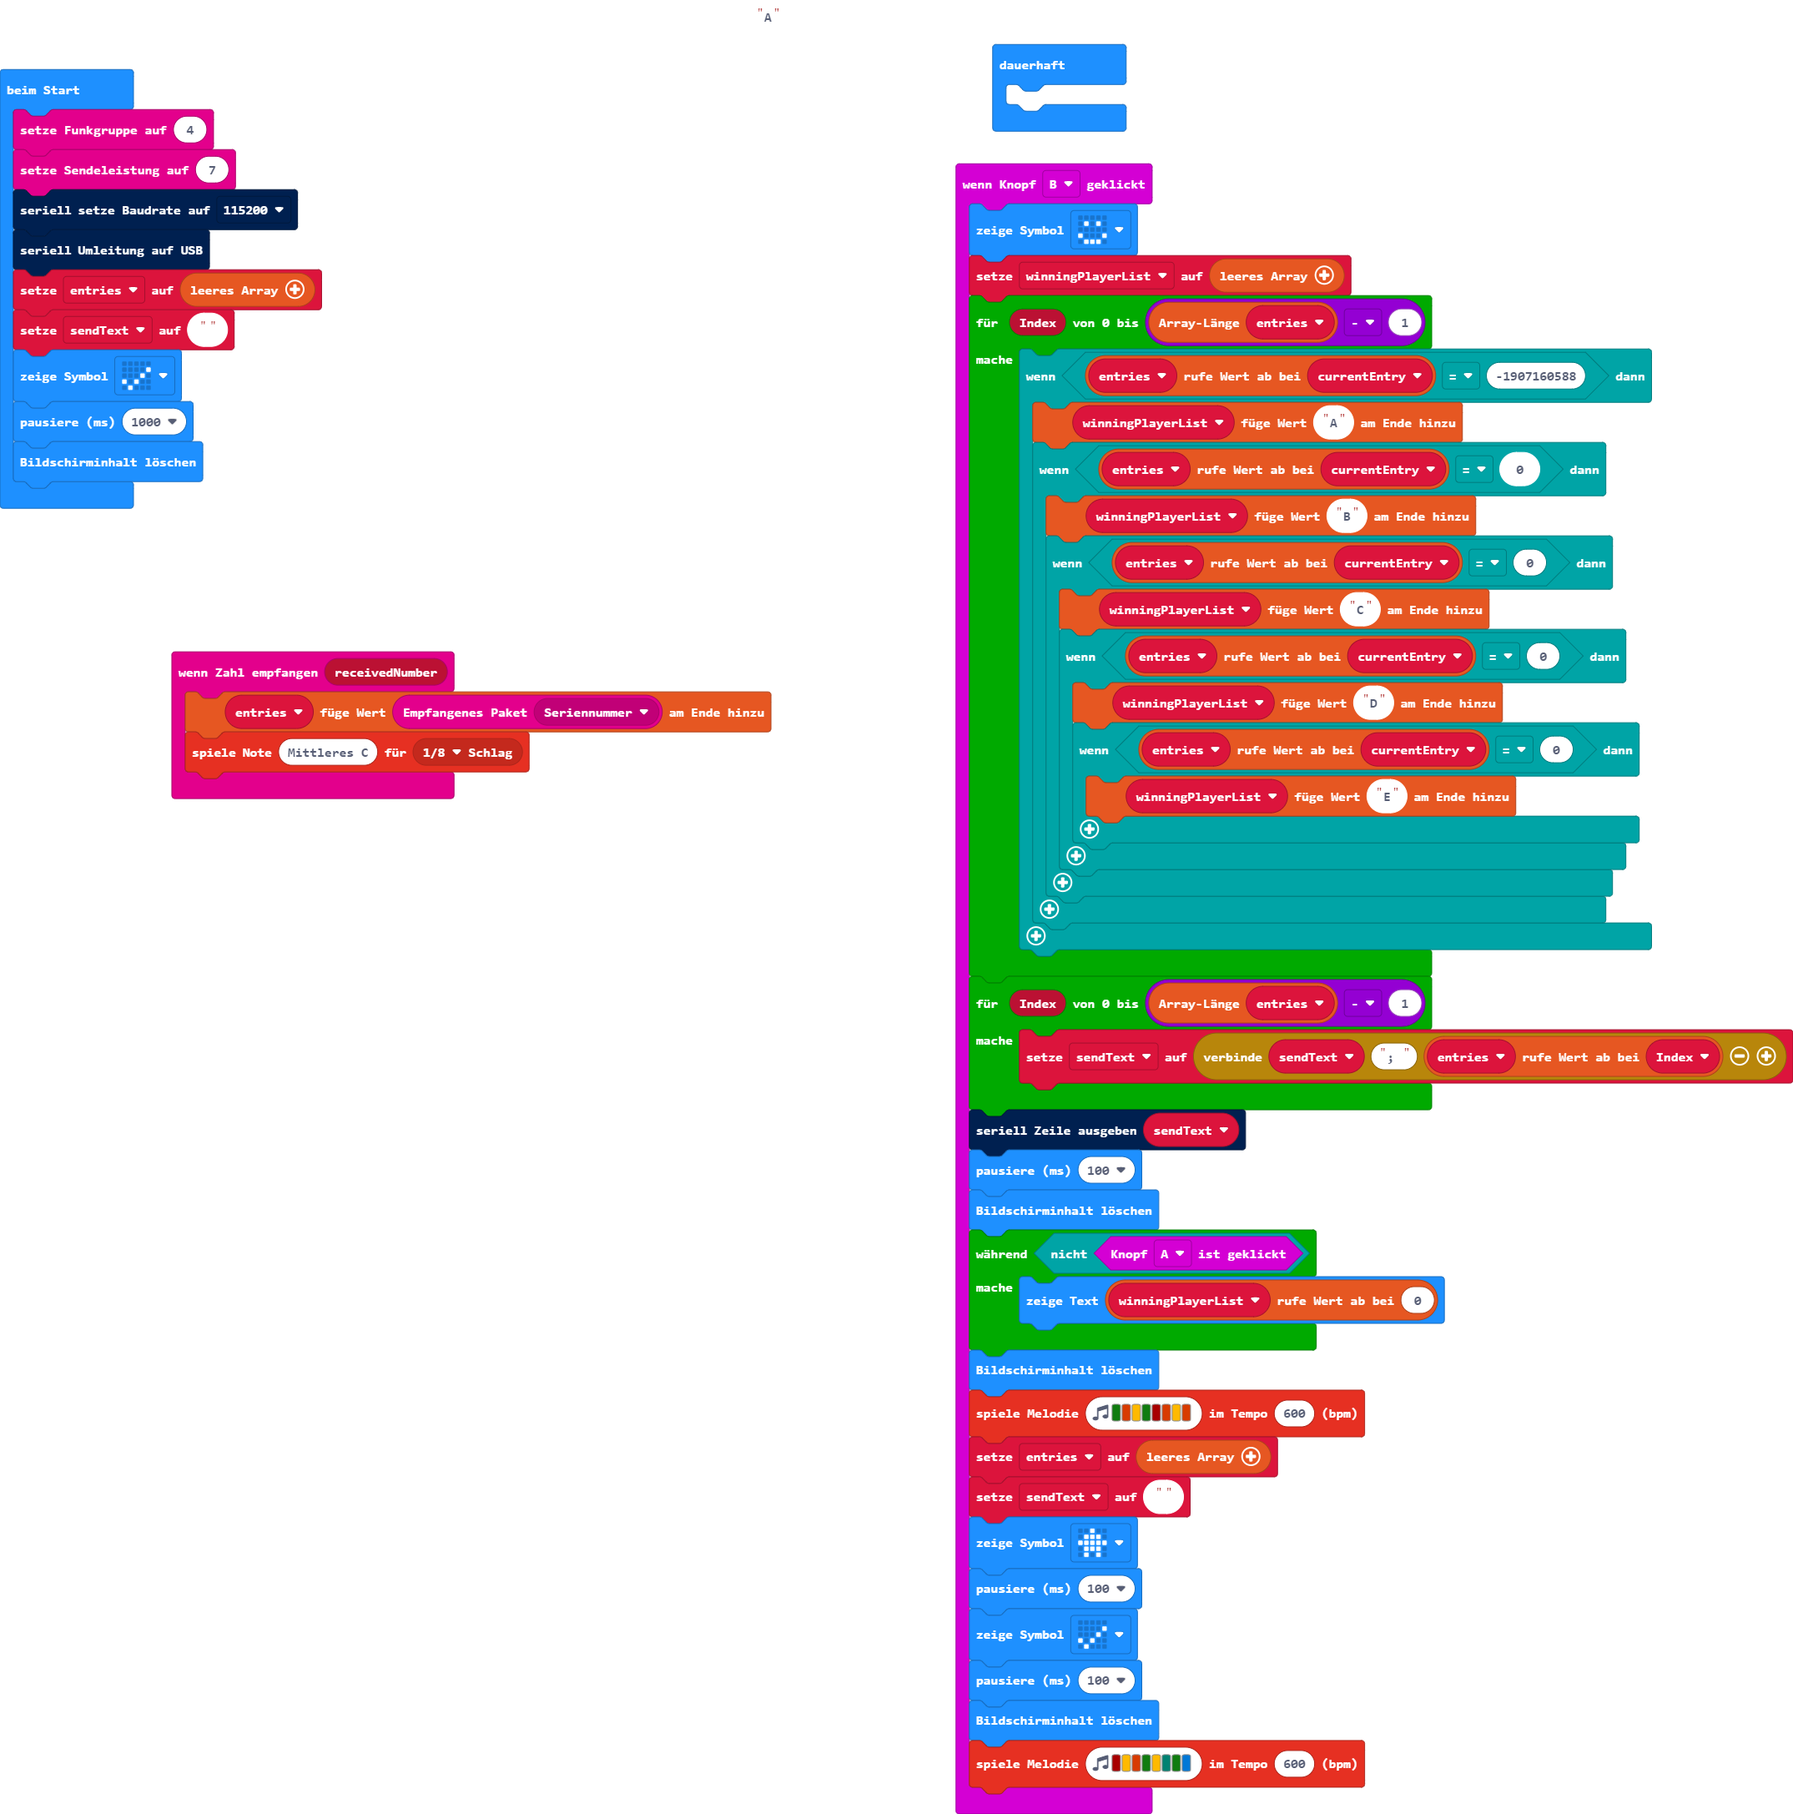
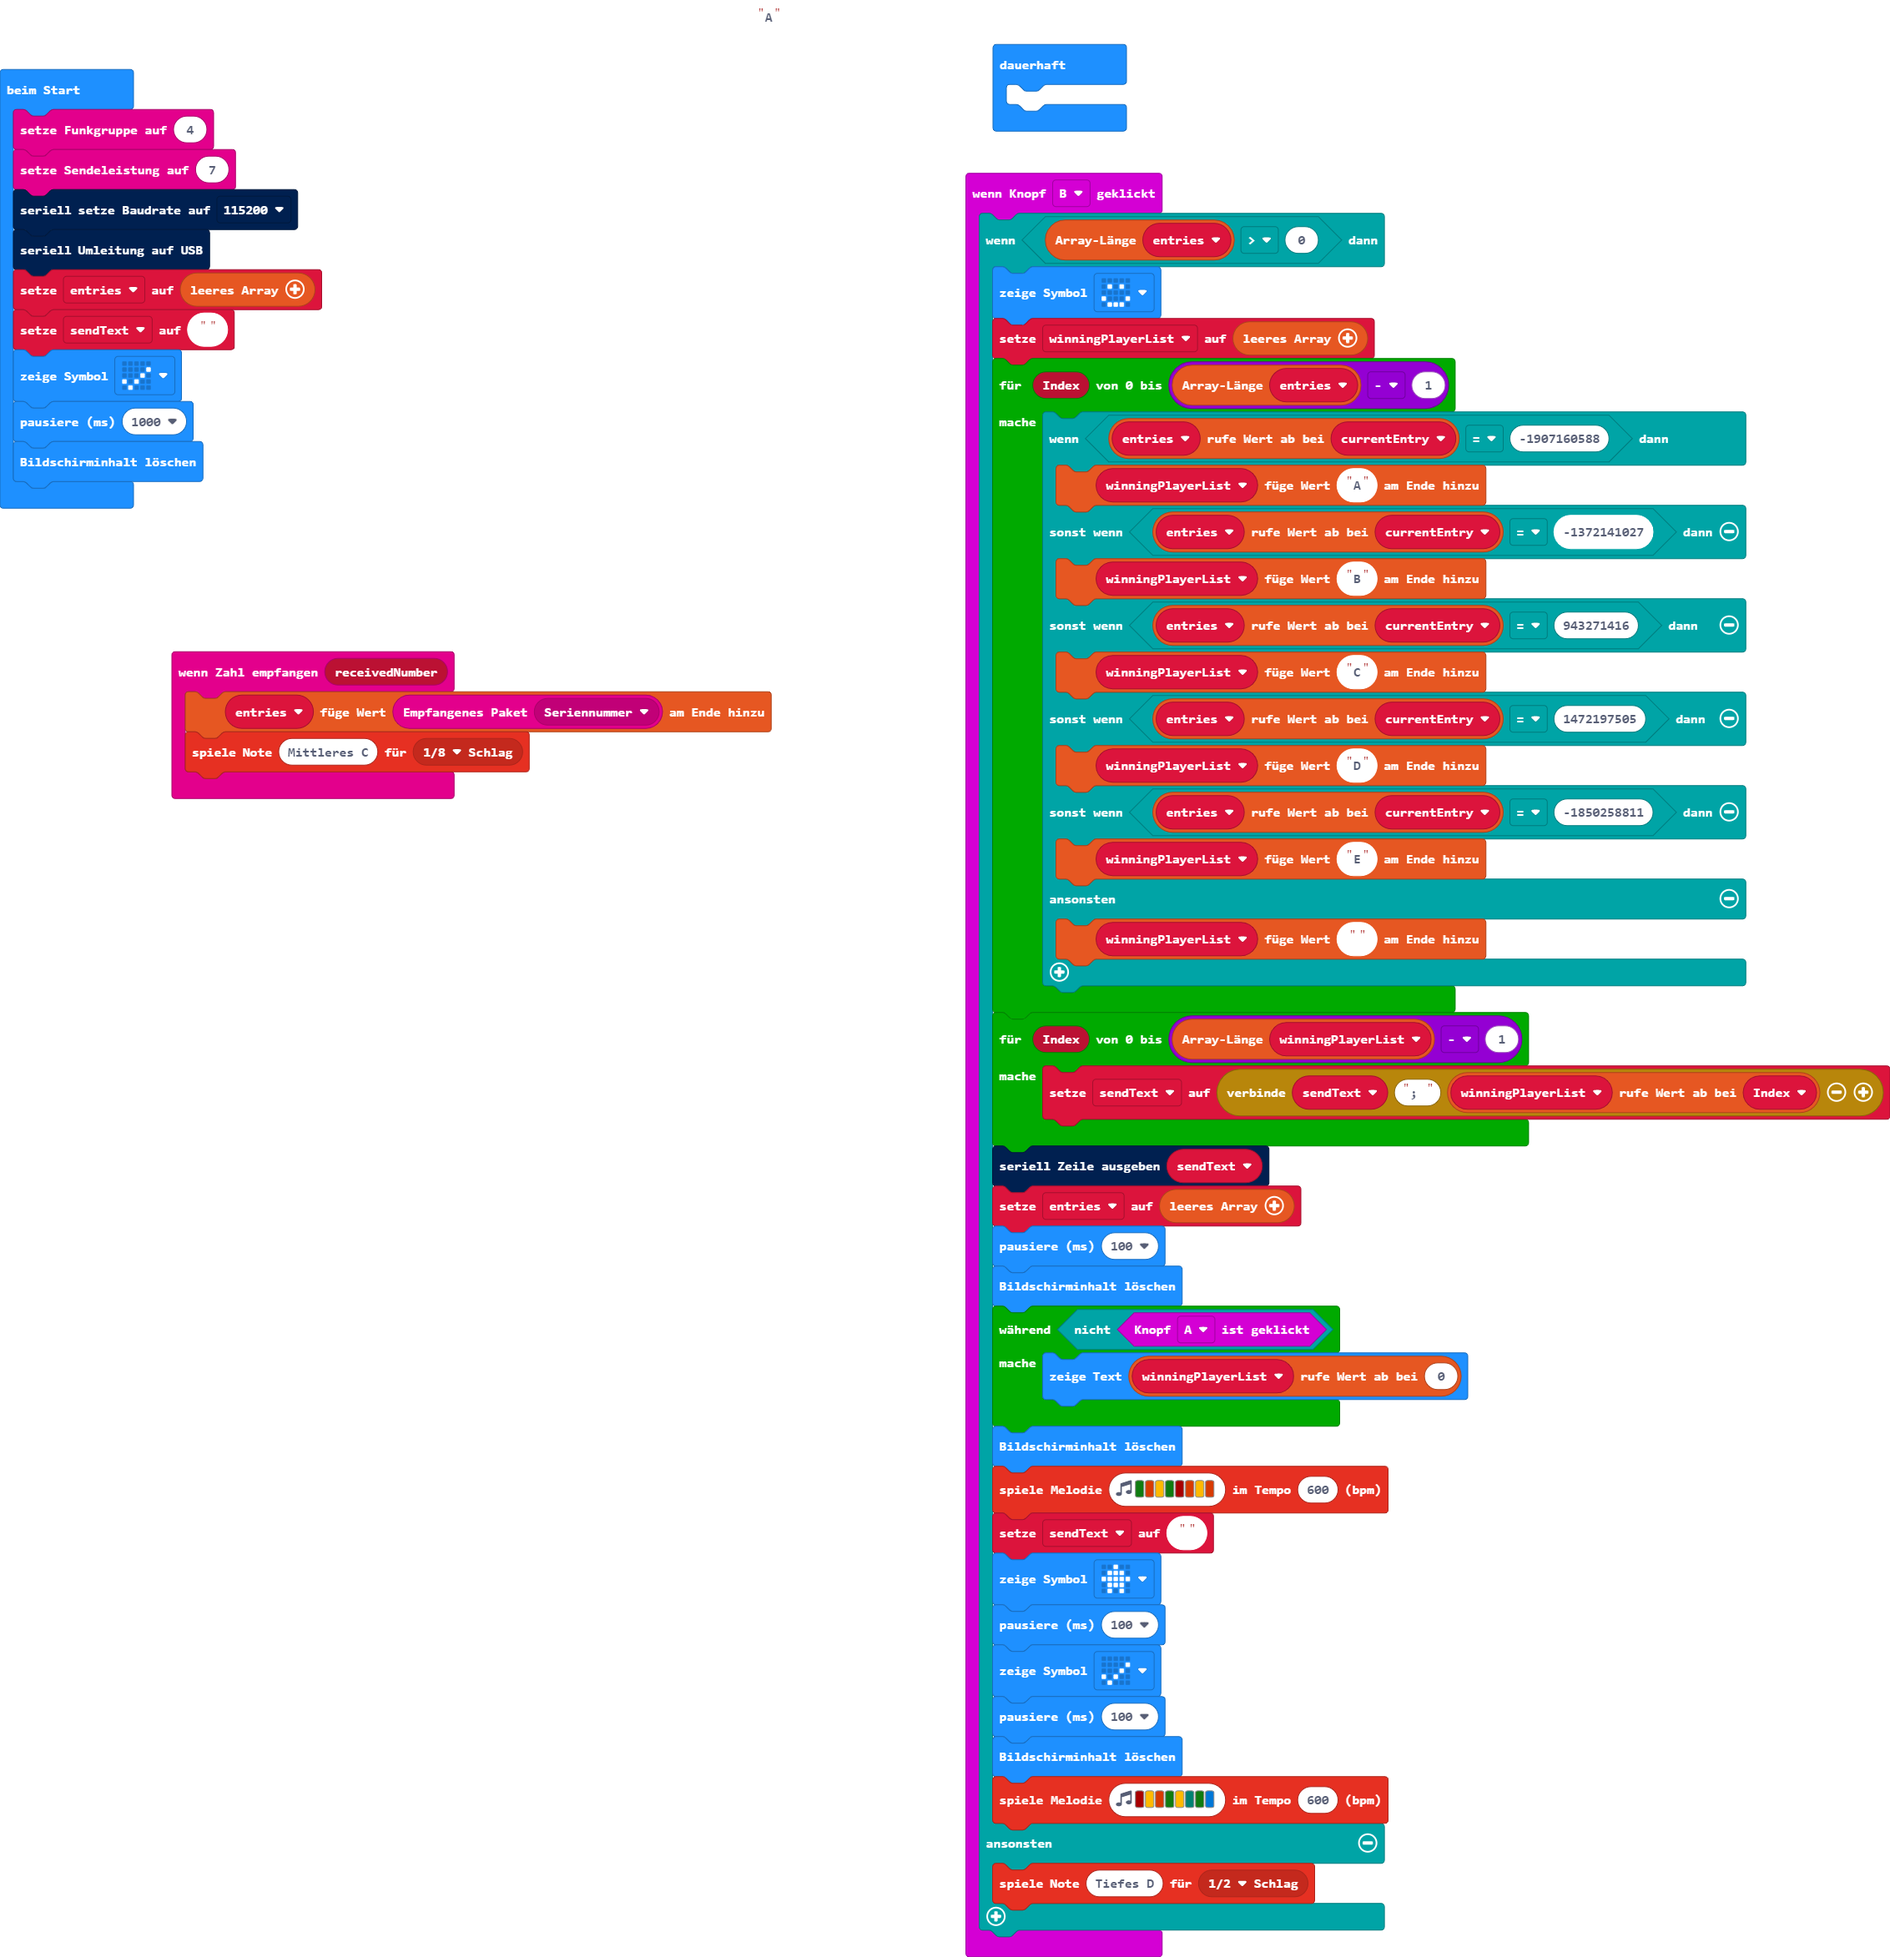
working just fine without processing

Changed region(s): [[0.4988, 0.0, 1.0, 1.0], [0.0624, 0.3082, 0.4365, 0.4623], [0.0, 0.0308, 0.1871, 0.3082]]

diff --git a/main.ts b/main.ts
@@ -6,45 +6,47 @@ radio.onReceivedNumber(function (receivedNumber) {
     music.playTone(262, music.beat(BeatFraction.Eighth))
 })
 input.onButtonPressed(Button.B, function () {
-    basic.showIcon(IconNames.Happy)
-    winningPlayerList = []
-    for (let Index = 0; Index <= entries.length - 1; Index++) {
-        let currentEntry = 0
-        if (entries[currentEntry] == -1907160588) {
-            winningPlayerList.push("A")
-            if (entries[currentEntry] == 0) {
+    if (entries.length > 0) {
+        basic.showIcon(IconNames.Happy)
+        winningPlayerList = []
+        for (let Index = 0; Index <= entries.length - 1; Index++) {
+            let currentEntry = 0
+            if (entries[currentEntry] == -1907160588) {
+                winningPlayerList.push("A")
+            } else if (entries[currentEntry] == -1372141027) {
                 winningPlayerList.push("B")
-                if (entries[currentEntry] == 0) {
-                    winningPlayerList.push("C")
-                    if (entries[currentEntry] == 0) {
-                        winningPlayerList.push("D")
-                        if (entries[currentEntry] == 0) {
-                            winningPlayerList.push("E")
-                        }
-                    }
-                }
+            } else if (entries[currentEntry] == 943271416) {
+                winningPlayerList.push("C")
+            } else if (entries[currentEntry] == 1472197505) {
+                winningPlayerList.push("D")
+            } else if (entries[currentEntry] == -1850258811) {
+                winningPlayerList.push("E")
+            } else {
+                winningPlayerList.push("")
             }
         }
+        for (let Index = 0; Index <= winningPlayerList.length - 1; Index++) {
+            sendText = "" + sendText + "; " + winningPlayerList[Index]
+        }
+        serial.writeLine(sendText)
+        entries = []
+        basic.pause(100)
+        basic.clearScreen()
+        while (!(input.buttonIsPressed(Button.A))) {
+            basic.showString("" + (winningPlayerList[0]))
+        }
+        basic.clearScreen()
+        music.playMelody("G B A G C5 B A B ", 600)
+        sendText = ""
+        basic.showIcon(IconNames.House)
+        basic.pause(100)
+        basic.showIcon(IconNames.Yes)
+        basic.pause(100)
+        basic.clearScreen()
+        music.playMelody("C5 A B G A F G E ", 600)
+    } else {
+        music.playTone(147, music.beat(BeatFraction.Half))
     }
-    for (let Index = 0; Index <= entries.length - 1; Index++) {
-        sendText = "" + sendText + "; " + entries[Index]
-    }
-    serial.writeLine(sendText)
-    basic.pause(100)
-    basic.clearScreen()
-    while (!(input.buttonIsPressed(Button.A))) {
-        basic.showString("" + (winningPlayerList[0]))
-    }
-    basic.clearScreen()
-    music.playMelody("G B A G C5 B A B ", 600)
-    entries = []
-    sendText = ""
-    basic.showIcon(IconNames.House)
-    basic.pause(100)
-    basic.showIcon(IconNames.Yes)
-    basic.pause(100)
-    basic.clearScreen()
-    music.playMelody("C5 A B G A F G E ", 600)
 })
 let winningPlayerList: string[] = []
 let sendText = ""
